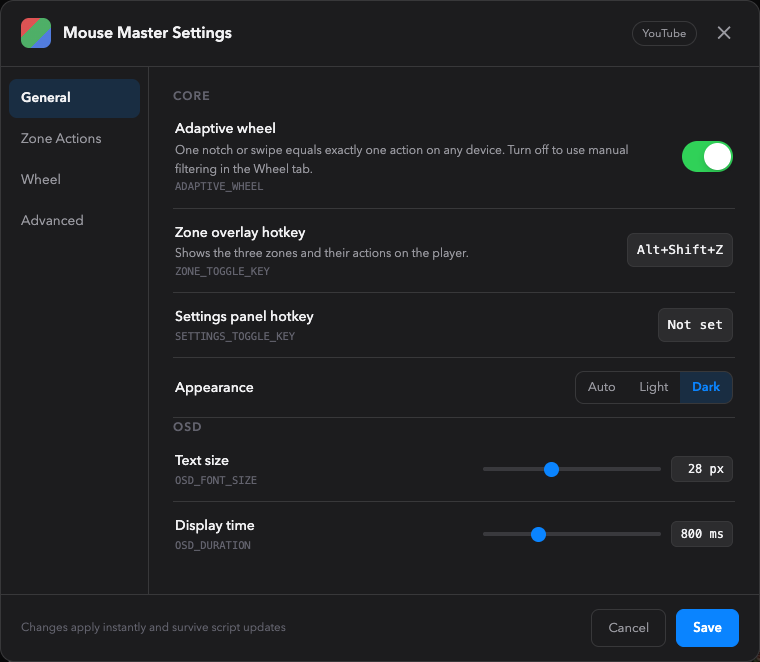
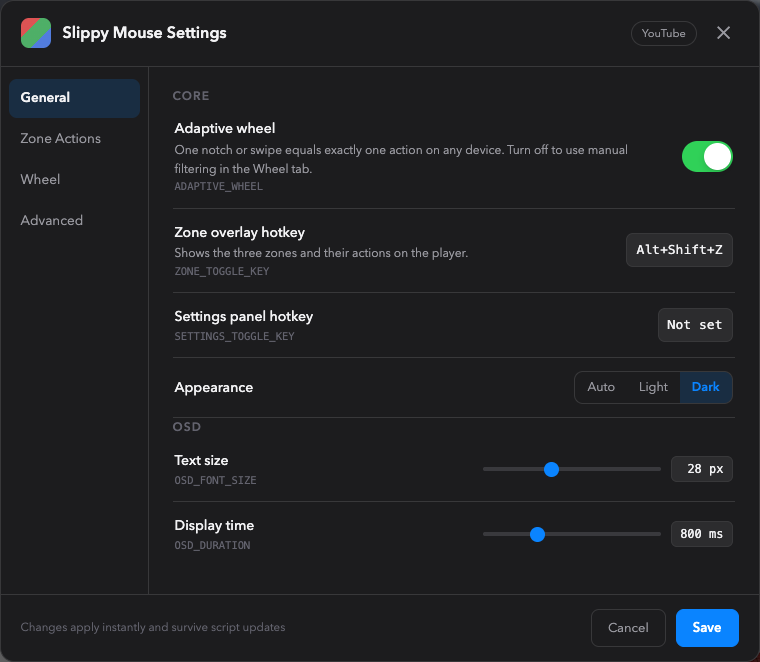
docs: Rebrand docs with Slippy Mouse assets and refreshed copy
- Add the brand asset set under assets/brand (icon, store logo,
  promo tiles, social preview) and a banner to every doc
- Rewrite the intro copy: lead with wheel-based playback control,
  site-agnostic wording, and mention the settings panel
- Expand installation to three methods (userscript one-click, browser
  extension with Edge listing in preparation plus manual load, manual
  userscript) and switch GreasyFork links to the stable ID URL
- Replace remaining YouTube-only wording in the action table

diff --git a/docs/jp.md b/docs/jp.md
@@ -1,6 +1,8 @@
-# YouTube Mouse Master
+# Slippy Mouse
 
-パワーユーザー向けに設計された YouTube プレイヤー操作強化スクリプト。高度に最適化され、オーバーレイなし（Zero-Overlay）かつ自由にカスタマイズ可能な Tampermonkey スクリプトです。
+![Slippy Mouse](./images/banner.png)
+
+オンライン動画プレイヤーのためのマウス拡張ツール。プレイヤーを3つのゾーンに分け、ゾーン内でマウス**ホイール**を回すだけで音量・再生速度・シークなどを操作できます。なめらかで快適、ショートカットを覚える必要も、ボタンを探す必要もありません。ひと転がしで思いどおり。ホイールやクリックの動作は設定パネルで自由にカスタマイズできます。
 
 ## ✨ 主な特徴
 
@@ -20,7 +22,7 @@
 
 ## 🎛 設定パネル
 
-コードの編集は不要です。プレイヤーのコントロールバーにあるマウスアイコンをクリックすると設定パネルが開きます（YouTube・Bilibili の両方に対応）：
+コードの編集は不要です。プレイヤーのコントロールバーにあるマウスアイコンをクリックすると設定パネルが開きます：
 
 ![Settings Panel](./images/settings-general.png)
 
@@ -90,20 +92,24 @@
 | `speed_up` | 再生速度を上げる | `0.25` |
 | `speed_down` | 再生速度を下げる | `0.25` |
 | `speed_set` | 固定の再生速度を設定 | `1.0`, `2.0` など |
-| `none` | 何もしない | YouTube ネイティブの動作を優先します |
+| `none` | 何もしない | サイトのネイティブ動作を優先します |
 
 </details>
 
 ## 📦 インストール方法
 
-**方法1：ワンクリックインストール（推奨）**
+**方法1：Userscript ワンクリックインストール（推奨、主要ブラウザ対応）**
 
 1. ブラウザ拡張機能 [Tampermonkey](https://www.tampermonkey.net/) をインストールします。
-2. **[GreasyFork スクリプトページ](https://greasyfork.org/en/scripts/566499-youtube-mouse-master)** にアクセスします。
+2. **[GreasyFork スクリプトページ](https://greasyfork.org/scripts/566499)** にアクセスします。
 3. **「このスクリプトをインストール」** ボタンをクリックします。
 
-**方法2：手動インストール**
+**方法2：ブラウザ拡張機能版**
 
-1. Tampermonkey で「新規スクリプトを作成」をクリックします。
-2. `YouTubeMouseMaster.user.js` の内容をコピーして貼り付けます。
+Microsoft Edge Add-ons は公開準備中です。本リポジトリの `extension/` ディレクトリをダウンロードし、ブラウザの拡張機能ページでデベロッパーモードを有効にして手動で読み込むこともできます。
+
+**方法3：Userscript 手動インストール**
+
+1. Tampermonkey で「新規スクリプト」を作成します。
+2. `SlippyMouse.user.js` の内容をコピーして貼り付けます。
 3. 保存すれば完了です！

diff --git a/README.md b/README.md
@@ -1,10 +1,12 @@
-# YouTube Mouse Master
+# Slippy Mouse
+
+![Slippy Mouse](./docs/images/banner.png)
 
 [English](./README.md) | [繁體中文](./docs/zh-tc.md) | [简体中文](./docs/zh-sc.md) | [日本語](./docs/jp.md) | [Español](./docs/es.md) | [한국어](./docs/ko.md) | [Português](./docs/pt.md)
 
-[![Install on GreasyFork](https://img.shields.io/badge/Install%20on-GreasyFork-brightgreen?style=for-the-badge&logo=greasyfork)](https://greasyfork.org/en/scripts/566499-youtube-mouse-master)
+[![Install on GreasyFork](https://img.shields.io/badge/Install%20on-GreasyFork-brightgreen?style=for-the-badge&logo=greasyfork)](https://greasyfork.org/scripts/566499)
 
-An interaction enhancement script for the YouTube player designed for power users. This is a deeply optimized, zero-overlay, and highly customizable Tampermonkey script.
+A mouse enhancement tool for online video players: the player is divided into three zones, and a **wheel** scroll inside a zone adjusts volume, playback speed, seeking, and more — buttery smooth. No shortcuts to memorize, no hunting for buttons; one easy scroll gets you there. A settings panel lets you customize every wheel and click action.
 
 ## ✨ Key Features
 
@@ -24,7 +26,7 @@ An interaction enhancement script for the YouTube player designed for power user
 
 ## 🎛 Settings Panel
 
-No code editing required — click the mouse icon on the player control bar (available on both YouTube and Bilibili) to open the settings panel:
+No code editing required — click the mouse icon on the player control bar to open the settings panel:
 
 ![Settings Panel](./docs/images/settings-general.png)
 
@@ -94,20 +96,24 @@ In `mouse_action`, the `action` types you can use are as follows:
 | `speed_up` | Increase playback rate | `0.25` |
 | `speed_down` | Decrease playback rate | `0.25` |
 | `speed_set` | Set fixed playback rate | `1.0`, `2.0`, etc. |
-| `none` | Perform no action | Passes the event through to YouTube's native handling |
+| `none` | Perform no action | Passes the event through to the site's native handling |
 
 </details>
 
 ## 📦 Installation
 
-**Method 1: One-Click Installation (Recommended)**
+**Method 1: Userscript one-click install (recommended, works in all major browsers)**
 
 1. Install the [Tampermonkey](https://www.tampermonkey.net/) browser extension.
-2. Visit the **[GreasyFork Script Page](https://greasyfork.org/en/scripts/566499-youtube-mouse-master)**.
+2. Visit the **[GreasyFork script page](https://greasyfork.org/scripts/566499)**.
 3. Click the **"Install this script"** button.
 
-**Method 2: Manual Installation**
+**Method 2: Browser extension**
+
+The Microsoft Edge Add-ons listing is in preparation. You can also download this repo's `extension/` directory and load it manually from your browser's extensions page with Developer Mode enabled.
+
+**Method 3: Manual userscript install**
 
 1. Create a "New Script" in Tampermonkey.
-2. Copy and paste the content of `YouTubeMouseMaster.user.js`.
+2. Copy and paste the content of `SlippyMouse.user.js`.
 3. Save and enjoy!

diff --git a/docs/es.md b/docs/es.md
@@ -1,6 +1,8 @@
-# YouTube Mouse Master
+# Slippy Mouse
 
-Script de mejora de interacción para el reproductor de YouTube diseñado para usuarios avanzados. Es un script de Tampermonkey altamente optimizado, sin capas superpuestas (Zero-Overlay) y totalmente personalizable.
+![Slippy Mouse](./images/banner.png)
+
+Una herramienta de mejora del ratón para reproductores de vídeo online: el reproductor se divide en tres zonas y, dentro de cada zona, basta girar la **rueda** del ratón para ajustar volumen, velocidad de reproducción, avance y más — con total fluidez. Sin atajos que memorizar ni botones que buscar: un giro suave y listo. Un panel de configuración permite personalizar cada acción de rueda y clic.
 
 ## ✨ Características Principales
 
@@ -20,7 +22,7 @@ Script de mejora de interacción para el reproductor de YouTube diseñado para u
 
 ## 🎛 Panel de Configuración
 
-Sin editar código — haz clic en el icono de ratón en la barra de controles del reproductor para abrir el panel (disponible en YouTube y Bilibili):
+Sin editar código — haz clic en el icono de ratón en la barra de controles del reproductor para abrir el panel de configuración:
 
 ![Settings Panel](./images/settings-general.png)
 
@@ -90,20 +92,24 @@ En `mouse_action`, los tipos de `action` que puedes usar son:
 | `speed_up` | Aumentar velocidad | `0.25` |
 | `speed_down` | Disminuir velocidad | `0.25` |
 | `speed_set` | Establecer velocidad fija | `1.0`, `2.0`, etc. |
-| `none` | Ninguna acción | Pasa el evento al manejo nativo de YouTube |
+| `none` | Ninguna acción | Pasa el evento al manejo nativo del sitio |
 
 </details>
 
 ## 📦 Instalación
 
-**Método 1: Instalación con un clic (Recomendado)**
+**Método 1: Instalación del Userscript con un clic (recomendado, funciona en los principales navegadores)**
 
-1. Instala la extensión del navegador [Tampermonkey](https://www.tampermonkey.net/).
-2. Visita la **[página del script en GreasyFork](https://greasyfork.org/en/scripts/566499-youtube-mouse-master)**.
+1. Instala la extensión de navegador [Tampermonkey](https://www.tampermonkey.net/).
+2. Visita la **[página del script en GreasyFork](https://greasyfork.org/scripts/566499)**.
 3. Haz clic en el botón **"Instalar este script"**.
 
-**Método 2: Instalación manual**
+**Método 2: Versión de extensión de navegador**
 
-1. Crea un "Nuevo script" en Tampermonkey.
-2. Copia y pega el contenido de `YouTubeMouseMaster.user.js`.
+El listado en Microsoft Edge Add-ons está en preparación. También puedes descargar el directorio `extension/` de este repo y cargarlo manualmente desde la página de extensiones del navegador con el Modo de desarrollador activado.
+
+**Método 3: Instalación manual del Userscript**
+
+1. Crea un "Nuevo Script" en Tampermonkey.
+2. Copia y pega el contenido de `SlippyMouse.user.js`.
 3. ¡Guarda y disfruta!

diff --git a/docs/pt.md b/docs/pt.md
@@ -1,6 +1,8 @@
-# YouTube Mouse Master
+# Slippy Mouse
 
-Script de melhoria de interação para o player do YouTube projetado para usuários avançados. Este é um script Tampermonkey altamente otimizado, sem sobreposição (Zero-Overlay) e altamente personalizável.
+![Slippy Mouse](./images/banner.png)
+
+Uma ferramenta de aprimoramento de mouse para players de vídeo online: o player é dividido em três zonas e, dentro de cada zona, basta girar a **roda** do mouse para ajustar volume, velocidade de reprodução, avanço e mais — tudo com fluidez. Sem atalhos para decorar, sem caçar botões: um giro leve e pronto. Um painel de configurações permite personalizar cada ação de roda e clique.
 
 ## ✨ Principais Características
 
@@ -20,7 +22,7 @@ Script de melhoria de interação para o player do YouTube projetado para usuár
 
 ## 🎛 Painel de Configurações
 
-Sem edição de código — clique no ícone de mouse na barra de controles do player para abrir o painel (disponível no YouTube e no Bilibili):
+Sem edição de código — clique no ícone de mouse na barra de controles do player para abrir o painel de configurações:
 
 ![Settings Panel](./images/settings-general.png)
 
@@ -90,20 +92,24 @@ Em `mouse_action`, os tipos de `action` que você pode usar são:
 | `speed_up` | Aumentar velocidade | `0.25` |
 | `speed_down` | Diminuir velocidade | `0.25` |
 | `speed_set` | Definir velocidade fixa | `1.0`, `2.0`, etc. |
-| `none` | Nenhuma ação | Passa o evento para o tratamento nativo do YouTube |
+| `none` | Nenhuma ação | Passa o evento para o tratamento nativo do site |
 
 </details>
 
 ## 📦 Instalação
 
-**Método 1: Instalação com um clique (Recomendado)**
+**Método 1: Instalação do Userscript em um clique (recomendado, funciona nos principais navegadores)**
 
-1. Instale a extensão do navegador [Tampermonkey](https://www.tampermonkey.net/).
-2. Visite a **[Página do Script no GreasyFork](https://greasyfork.org/en/scripts/566499-youtube-mouse-master)**.
+1. Instale a extensão de navegador [Tampermonkey](https://www.tampermonkey.net/).
+2. Acesse a **[página do script no GreasyFork](https://greasyfork.org/scripts/566499)**.
 3. Clique no botão **"Instalar este script"**.
 
-**Método 2: Instalação manual**
+**Método 2: Versão extensão de navegador**
 
-1. Crie um "Novo script" no Tampermonkey.
-2. Copie e cole o conteúdo de `YouTubeMouseMaster.user.js`.
+A listagem na Microsoft Edge Add-ons está em preparação. Você também pode baixar o diretório `extension/` deste repo e carregá-lo manualmente na página de extensões do navegador com o Modo de desenvolvedor ativado.
+
+**Método 3: Instalação manual do Userscript**
+
+1. Crie um "Novo Script" no Tampermonkey.
+2. Copie e cole o conteúdo de `SlippyMouse.user.js`.
 3. Salve e aproveite!

diff --git a/docs/zh-sc.md b/docs/zh-sc.md
@@ -1,6 +1,8 @@
-# YouTube Mouse Master
+# Slippy Mouse
 
-针对高阶用户设计的 YouTube 播放器交互强化脚本。这是一款经过深度优化、无遮挡感且支持高度客制化的 Tampermonkey 脚本。
+![Slippy Mouse](./images/banner.png)
+
+为在线播放器打造的鼠标增强工具：播放器上划出三个感应区，只需在感应区用鼠标**滚轮**便可以进行音量、播放倍率、快进等操作，丝滑顺畅，不需要再记快捷键、也不需到处找按钮，只需轻松一滚便能到位。并且也提供配置界面让用户可以自定义滚轮/点击事件。
 
 ## ✨ 核心特色
 
@@ -20,7 +22,7 @@
 
 ## 🎛 设置面板
 
-无需修改代码——点击播放器控制栏上的鼠标图标即可打开设置面板（YouTube 与 B站的控制栏都有）：
+无需修改代码——点击播放器控制栏上的鼠标图标即可打开设置面板：
 
 ![Settings Panel](./images/settings-general.png)
 
@@ -90,20 +92,24 @@
 | `speed_up` | 增加播放倍速 | `0.25` |
 | `speed_down` | 减少播放倍速 | `0.25` |
 | `speed_set` | 设定固定播放倍速 | `1.0`, `2.0` 等 |
-| `none` | 不执行动作 | 会将事件放行给 YouTube 原生处理 |
+| `none` | 不执行动作 | 会将事件放行给网站原生处理 |
 
 </details>
 
 ## 📦 安装方式
 
-**方法一：一键安装（推荐）**
+**方法一：Userscript 一键安装（推荐，支持所有主流浏览器）**
 
 1. 安装浏览器扩展 [Tampermonkey](https://www.tampermonkey.net/)。
-2. 前往 **[GreasyFork 脚本页面](https://greasyfork.org/en/scripts/566499-youtube-mouse-master)**。
-3. 点击 **“安装此脚本”** 按钮。
+2. 前往 **[GreasyFork 脚本页面](https://greasyfork.org/scripts/566499)**。
+3. 点击 **「安装此脚本」** 按钮。
 
-**方法二：手动安装**
+**方法二：浏览器扩展版**
 
-1. 在 Tampermonkey 中点击“新建脚本”。
-2. 复制 `YouTubeMouseMaster.user.js` 的完整内容并粘贴。
+Microsoft Edge Add-ons 上架准备中；也可下载本 repo 的 `extension/` 目录后，在浏览器的扩展程序页开启开发者模式手动加载。
+
+**方法三：手动安装 Userscript**
+
+1. 在 Tampermonkey 中点击「新建脚本」。
+2. 复制 `SlippyMouse.user.js` 的完整内容并粘贴。
 3. 保存后即可使用！

diff --git a/docs/zh-tc.md b/docs/zh-tc.md
@@ -1,6 +1,8 @@
-# YouTube Mouse Master
+# Slippy Mouse
 
-針對高階使用者設計的 YouTube 播放器交互強化腳本。這是一款經過深度優化、零遮擋感且支援高度客製化的 Tampermonkey 腳本。
+![Slippy Mouse](./images/banner.png)
+
+為線上播放器打造的滑鼠增強工具：播放器上劃出三個感應區，只需在感應區用滑鼠**滾輪**便可以進行音量、播放倍率、快進等操作，絲滑順暢，不需要再記快捷鍵、也不需到處找按鈕，只需輕鬆一滾便能到位。並且也提供配置介面讓用戶可以自訂滾輪/點擊事件。
 
 ## ✨ 核心特色
 
@@ -20,7 +22,7 @@
 
 ## 🎛 設定面板
 
-不需要修改程式碼——點擊播放器控制列上的滑鼠圖示即可開啟設定面板（YouTube 與 B站的控制列都有）：
+不需要修改程式碼——點擊播放器控制列上的滑鼠圖示即可開啟設定面板：
 
 ![Settings Panel](./images/settings-general.png)
 
@@ -90,20 +92,24 @@
 | `speed_up` | 增加播放倍速 | `0.25` |
 | `speed_down` | 減少播放倍速 | `0.25` |
 | `speed_set` | 設定固定播放倍速 | `1.0`, `2.0` 等 |
-| `none` | 不執行動作 | 會將事件放行給 YouTube 原生處理 |
+| `none` | 不執行動作 | 會將事件放行給網站原生處理 |
 
 </details>
 
 ## 📦 安裝方式
 
-**方法一：一鍵安裝（推薦）**
+**方法一：Userscript 一鍵安裝（推薦，支援所有主流瀏覽器）**
 
 1. 安裝瀏覽器擴充功能 [Tampermonkey](https://www.tampermonkey.net/)。
-2. 前往 **[GreasyFork 腳本頁面](https://greasyfork.org/en/scripts/566499-youtube-mouse-master)**。
+2. 前往 **[GreasyFork 腳本頁面](https://greasyfork.org/scripts/566499)**。
 3. 點擊 **「安裝此腳本」** 按鈕。
 
-**方法二：手動安裝**
+**方法二：瀏覽器擴充版**
+
+Microsoft Edge Add-ons 上架準備中；也可下載本 repo 的 `extension/` 目錄後，在瀏覽器的擴充功能頁開啟開發人員模式手動載入。
+
+**方法三：手動安裝 Userscript**
 
 1. 在 Tampermonkey 中點擊「新建腳本」。
-2. 複製 `YouTubeMouseMaster.user.js` 的完整內容並貼上。
+2. 複製 `SlippyMouse.user.js` 的完整內容並貼上。
 3. 儲存後即可使用！
